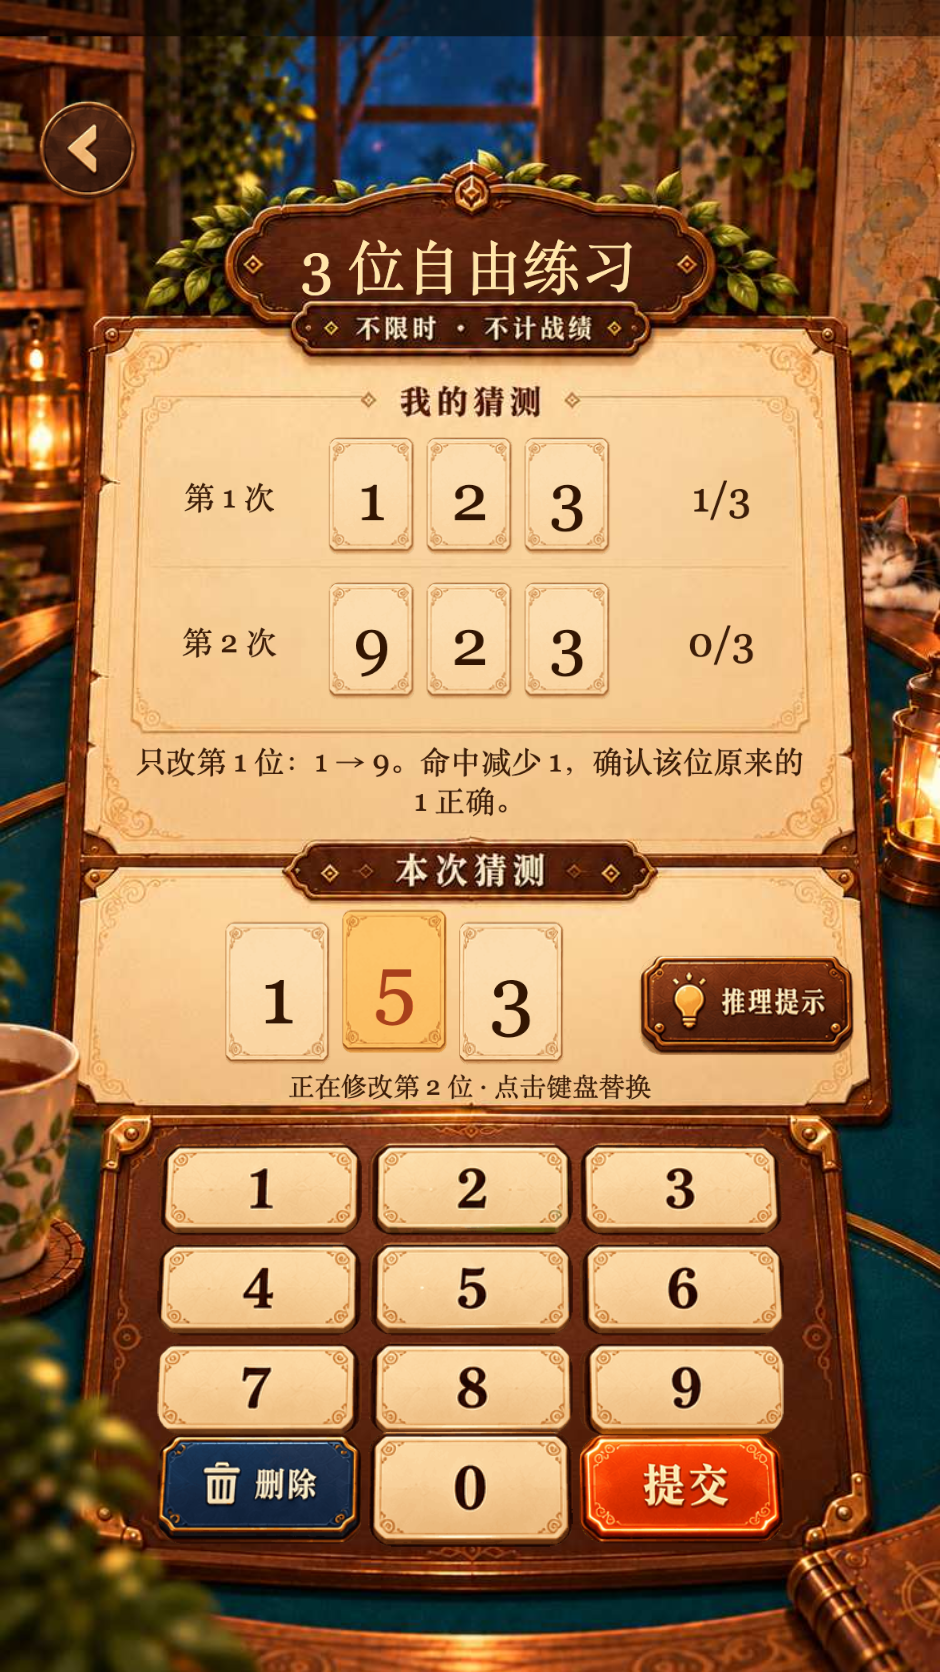
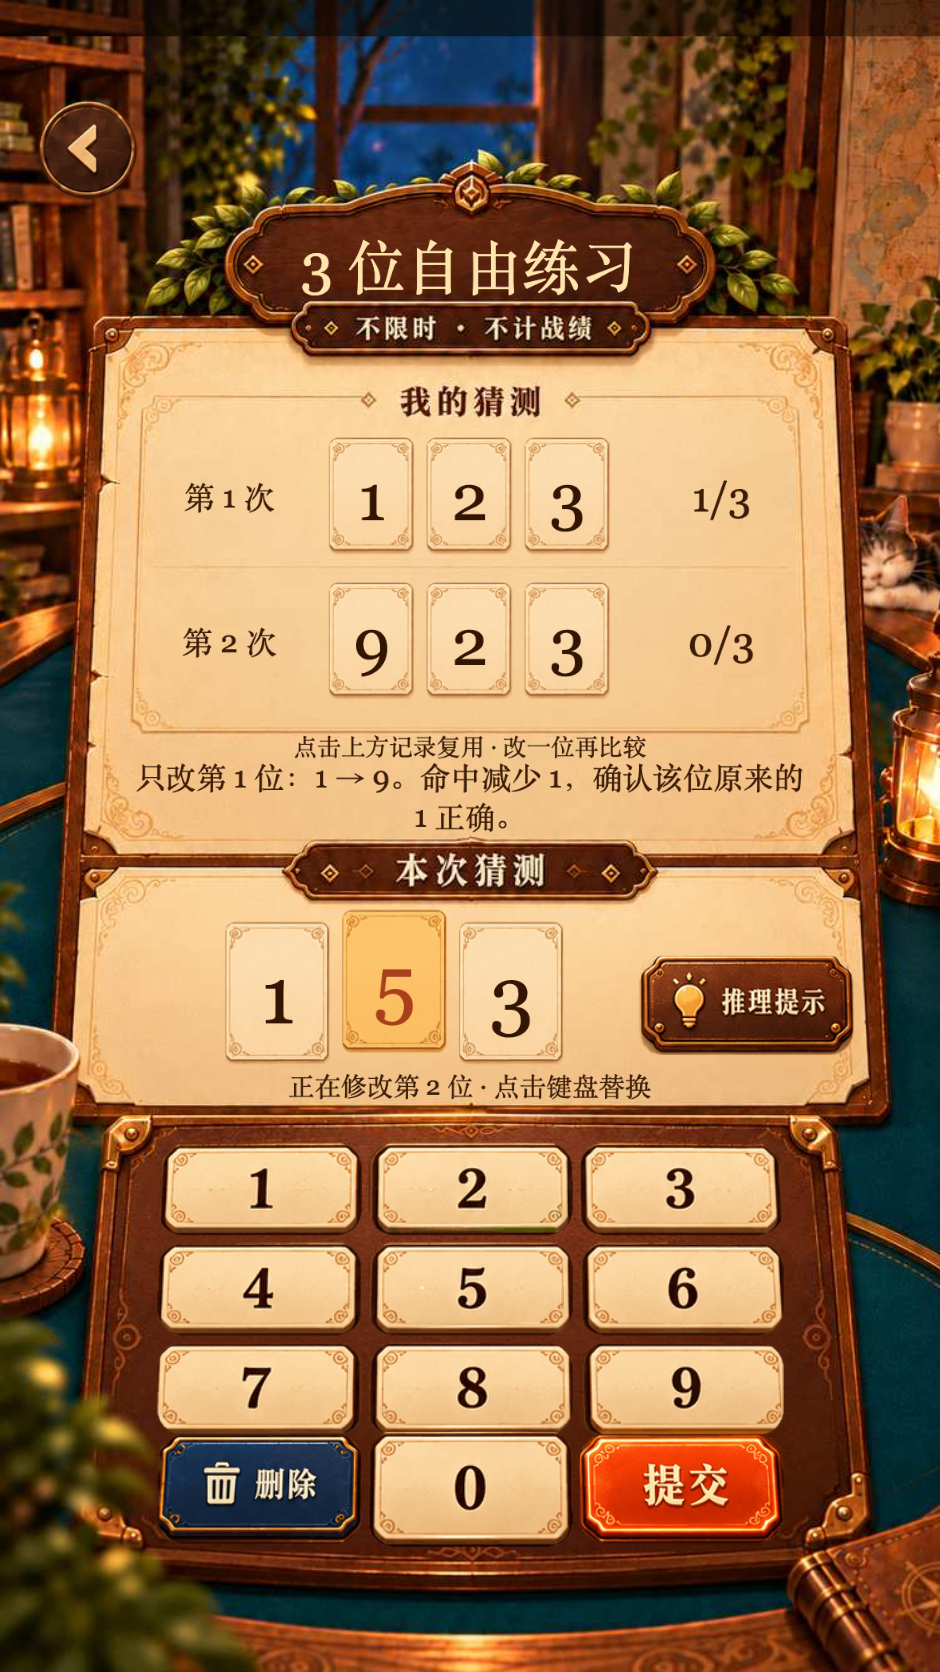
feat: reuse recent practice guesses directly from the page

Changed region(s): [[0.1543, 0.4354, 0.8638, 0.4976]]

diff --git a/assets/scripts/LearningPanel.ts b/assets/scripts/LearningPanel.ts
@@ -245,7 +245,7 @@ export class LearningPanel {
   private keyboard(size: DigitCount, practice=false) {
     this.cards(this.draft,practice?395:470,practice?958:820,practice?105:110,true,size);
     for(const [i,key] of ['1','2','3','4','5','6','7','8','9','delete','0','submit'].entries()) {
-      this.fixed('key-'+key,key==='delete'?'删除':key==='submit'?'提交':key,260+(i%3)*211,(practice?1154:1020)+Math.floor(i/3)*100,205,()=>this.input(key),key!=='submit'||this.draft.length===size);
+      this.fixed('key-'+key,key==='delete'?'删除':key==='submit'?'提交':key,260+(i%3)*211,(practice?1154:1020)+Math.floor(i/3)*100,205,()=>this.input(key),key==='submit'?this.draft.length===size:key==='delete'?this.draft.length>0:true);
     }
   }
   private teach() {
@@ -300,9 +300,16 @@ export class LearningPanel {
       this.text(`第 ${practice.history.length-recent.length+i+1} 次`,229,y,145,70,31);
       this.cards(h.digits!,470,y,practice.size===4?65:86);
       this.text(`${h.hits}/${practice.size}`,722,y,120,70,40);
+      const index=practice.history.length-recent.length+i;
+      const reuse=this.node('PracticeReuse',470,y,680,130);
+      this.touch(reuse,'reuse-'+index,()=>{
+        this.draft=h.digits!; this.slot=-1;
+        this.message=`已复用第 ${index+1} 次猜测，点击一张卡牌修改。`; this.refresh();
+      });
     });
+    if(recent.length)this.text('点击上方记录复用 · 改一位再比较',470,710,650,32,24);
     const caption=recent.length>1?compareClues(recent[0],recent[1]):recent.length?clueCaption(recent[0]):'点击卡牌可单独修改一位';
-    this.text(this.message||caption,470,744,670,106,30);
+    this.text(this.message||caption,470,760,670,90,30);
     this.keyboard(practice.size,true);
     this.text(this.slot>=0?(this.slot<this.draft.length?`正在修改第 ${this.slot+1} 位 · 点击键盘替换`:`接着填写第 ${this.slot+1} 位 · 点击键盘输入`):`已输入 ${this.draft.length}/${practice.size} 位 · 点击卡牌可修改`,470,1050,680,40,26);
     this.fixed('hint',`推理提示 · ${practice.history.length} 条记录`,747,970,215,()=>this.go('clues'));

diff --git a/docs/verification/learning-v2/interaction-polish.md b/docs/verification/learning-v2/interaction-polish.md
@@ -27,3 +27,11 @@
 - 设置对照后明确提示继续选择另一条记录，见 [实际截图](baseline-guidance.png)。
 - 本轮 87 项测试、服务端/客户端类型检查、页面点按回归与微信导出通过。新增点按断言覆盖空卡牌输入和历史重开后复制最新记录。
 - 仍为本地 Web 验证与微信导出，未进行微信真机验证或线上发布。
+
+## 后续优化：练习记录直接复用
+
+- 最近两条练习记录支持整行点击复用，省去进入笔记、切换历史和复制的步骤。复制后明确提示点击卡牌修改，保留手动提交。
+- 复用不增加历史、不触发猜测；回归脚本实际点击第一条记录并修改第二位，验证草稿与历史数量。
+- 空草稿时删除按钮置灰，避免无效操作。继续复用现有美术，无新增运行资源。
+- 87 项测试、服务端/客户端类型检查、页面与教学/练习/在线对局点按回归通过。微信重新导出成功，体积见 package-size.txt。
+- 本地导出与 Web 验证已完成；未进行微信真机验证或正式发布。
